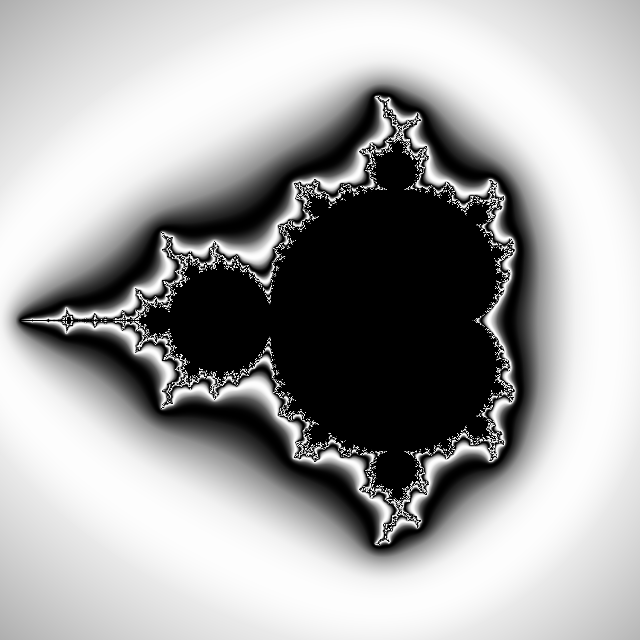
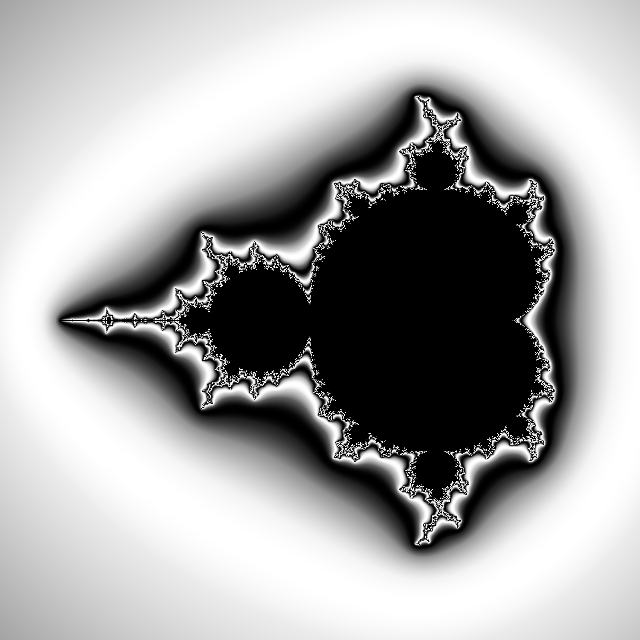
adjusted small things

diff --git a/python/mandelbrot.py b/python/mandelbrot.py
@@ -1,28 +1,28 @@
 #!/bin/python
+
 import math, PIL.Image
 
 w, h = 640, 640
-x, y = -0.5, 0
+x, y = -0.7, 0
 zoom = 200
 radius        = 2**3
 maxIterations = 41
-continuous    = True
-
-image = PIL.Image.new('L',(w,h),0)
 
 areal = [(a,(a - w/2.)/zoom + x) for a in range(w)]
 bimag = [(b,(b - h/2.)/zoom + y) for b in range(h)]
+
+image = PIL.Image.new('L',(w,h),0)
 pixel = image.load()
 
-for (b,imag) in bimag:
-  for (a,real) in areal:
+for (a,real) in areal:
+  for (b,imag) in bimag:
     v = cv = real + imag*1j
     i = 0
     while i<maxIterations and abs(v)<radius:
       v = v*v + cv
       i += 1
     if i<maxIterations:
-      pixel[a,b] = 127+127*math.sin(i - math.log(abs(v),radius)) if continuous else 6*i
+      pixel[a,b] = 128+128*math.sin(i - math.log(abs(v),radius))
 
-image.show()
-# image.save("mandelbrot.png")
+# image.show()
+image.save("mandelbrot.png")
